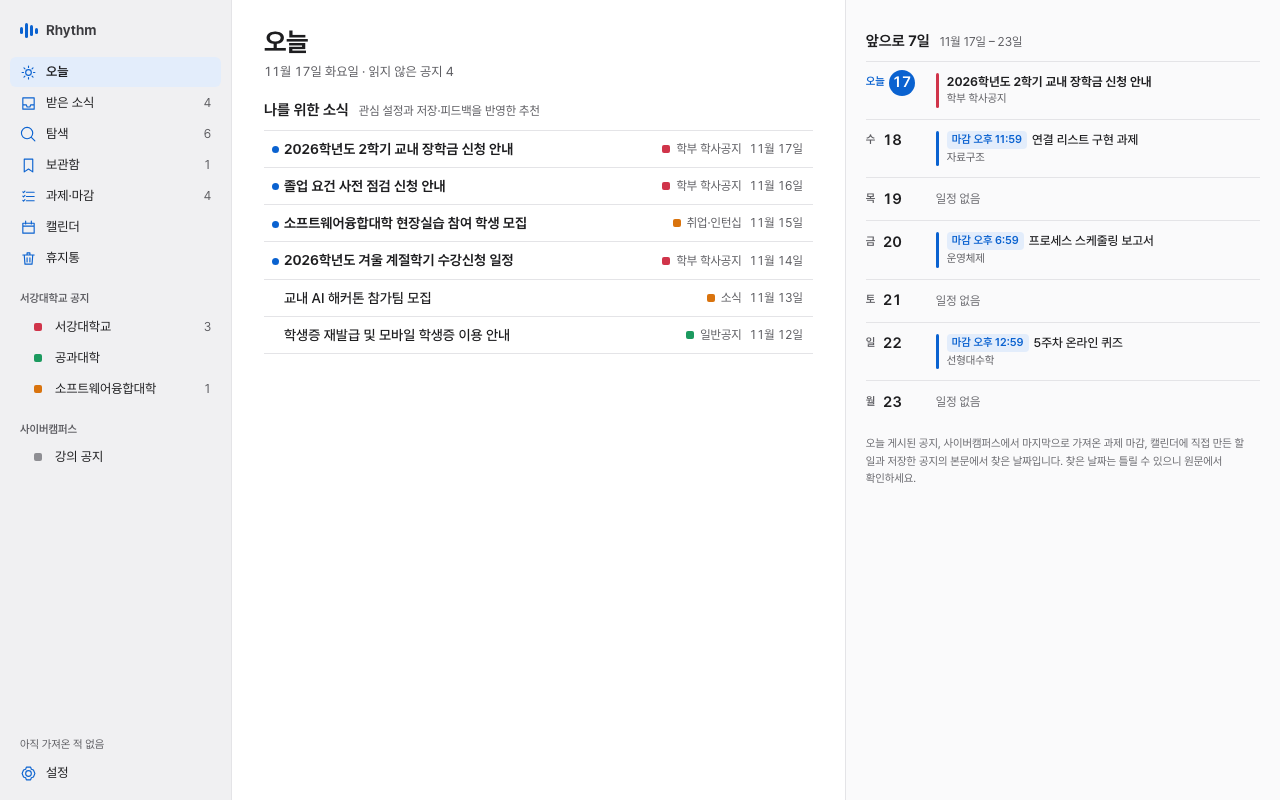
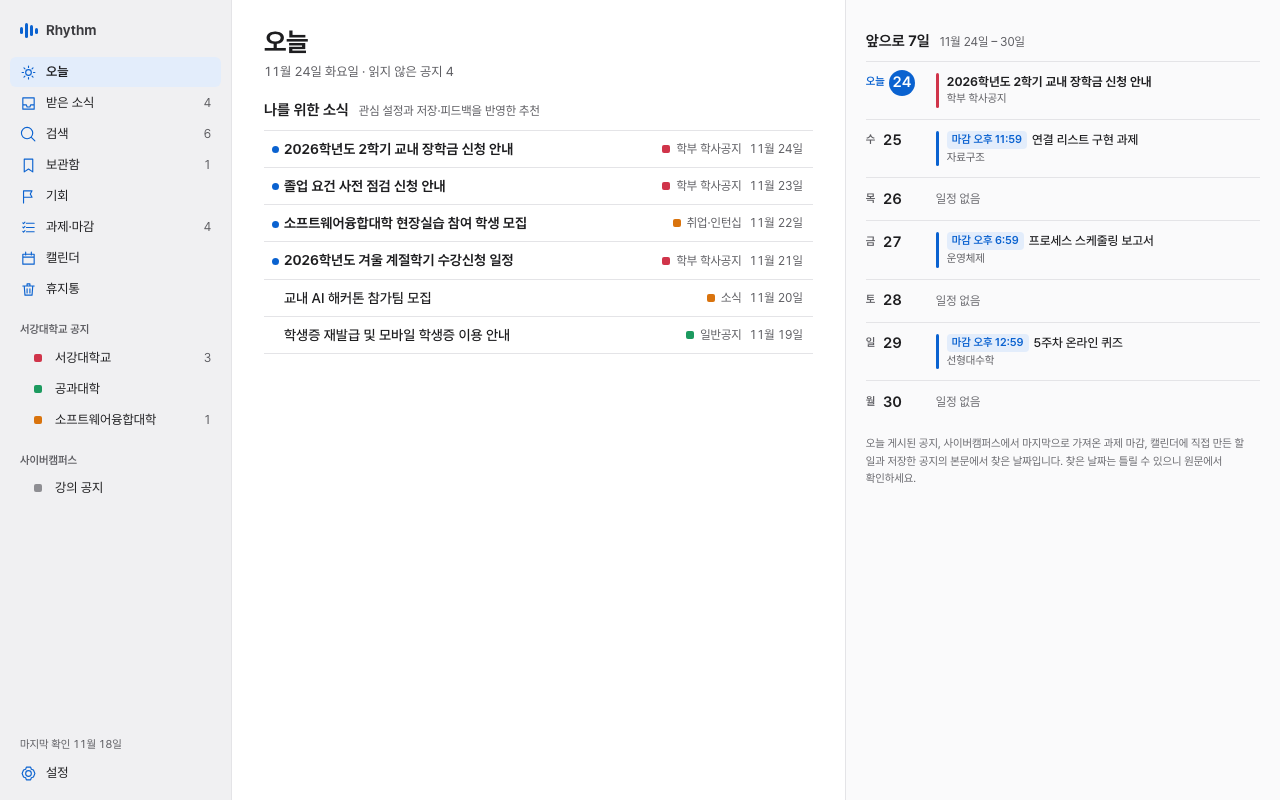
fix: rename the 탐색 page to 검색

diff --git a/tests/ui/archive.spec.ts b/tests/ui/archive.spec.ts
@@ -115,16 +115,16 @@ test('saving an item admits only one pending write and announces feedback', asyn
 test('navigation, local searches, filters, safe highlighting and empty-result announcement', async ({ page }) => {
   await mockDesktop(page);
   await page.goto('/');
-  for (const name of ['받은 소식', '보관함', '설정', '오늘', '탐색']) await navigate(page, name);
+  for (const name of ['받은 소식', '보관함', '설정', '오늘', '검색']) await navigate(page, name);
   await expect(page.locator('#main')).toBeFocused();
   await page.getByLabel('보관된 공지 검색').fill('장학금 Computer');
-  await page.getByRole('button', { name: '검색', exact: true }).click();
+  await page.getByRole('search').getByRole('button', { name: '검색', exact: true }).click();
   await expect(page.locator('.notice-list > li')).toHaveCount(2);
   await expect(page.locator('.notice-snippet mark').first()).toBeVisible();
   await page.getByRole('combobox', { name: '게시판 분류', exact: true }).selectOption('장학');
   await expect(page.locator('.notice-list > li')).toHaveCount(1);
   await page.getByLabel('보관된 공지 검색').fill('<script> & " % _');
-  await page.getByRole('button', { name: '검색', exact: true }).click();
+  await page.getByRole('search').getByRole('button', { name: '검색', exact: true }).click();
   await expect(page.getByText('조건에 맞는 공지가 없습니다', { exact: true })).toBeVisible();
   await expect(page.locator('.archive-result-status')).toContainText('0개');
   await expect(page.locator('.archive-view script')).toHaveCount(0);
@@ -133,10 +133,10 @@ test('navigation, local searches, filters, safe highlighting and empty-result an
 test('relevance search stays text-only without an embedding model', async ({ page }) => {
   await mockDesktop(page, { count: 3, aiSemanticSearch: true });
   await page.goto('/');
-  await navigate(page, '탐색');
+  await navigate(page, '검색');
   await expect(page.getByRole('combobox', { name: '정렬', exact: true })).toHaveValue('relevance');
   await page.getByLabel('보관된 공지 검색').fill('공지 01');
-  await page.getByRole('button', { name: '검색', exact: true }).click();
+  await page.getByRole('search').getByRole('button', { name: '검색', exact: true }).click();
   await expect(page.locator('.notice-list > li')).toHaveCount(1);
   await expect.poll(() => callCount(page, 'archive_ranked_query')).toBe(1);
   await expect(page.locator('.notice-meaning-note')).toHaveCount(0);
@@ -146,9 +146,9 @@ test('relevance search stays text-only without an embedding model', async ({ pag
 test('relevance search marks notices found only by meaning, and date order is text-only', async ({ page }) => {
   await mockDesktop(page, { count: 3, aiSemanticSearch: true, aiEmbeddingInstalled: true });
   await page.goto('/');
-  await navigate(page, '탐색');
+  await navigate(page, '검색');
   await page.getByLabel('보관된 공지 검색').fill('공지 03');
-  await page.getByRole('button', { name: '검색', exact: true }).click();
+  await page.getByRole('search').getByRole('button', { name: '검색', exact: true }).click();
   await expect(page.locator('.notice-list > li')).toHaveCount(2);
   const meaning = page.locator('.notice-list > li').filter({ has: page.locator('.notice-meaning-note') });
   await expect(meaning).toHaveCount(1);
@@ -431,17 +431,17 @@ test('narrow reader contains wide tables, exposes keyboard scroll and preserves 
 test('obsolete searches cannot overwrite newer filters or clamp their page', async ({ page }) => {
   await mockDesktop(page, { count: 31 });
   await page.goto('/');
-  await navigate(page, '탐색');
+  await navigate(page, '검색');
   await expect(page.locator('.notice-list > li')).toHaveCount(30);
   await page.evaluate(() => { (window as any).__fixture.options.queryDelay = 350; });
   await page.getByLabel('보관된 공지 검색').fill('없는검색어');
-  await page.getByRole('button', { name: '검색', exact: true }).click();
+  await page.getByRole('search').getByRole('button', { name: '검색', exact: true }).click();
   await expect(page.locator('.archive-view .loading')).toBeVisible();
   await page.evaluate(() => { (window as any).__fixture.options.queryDelay = 0; });
   await page.getByRole('combobox', { name: '게시판 분류', exact: true }).selectOption('장학');
   await expect(page.getByText('조건에 맞는 공지가 없습니다', { exact: true })).toBeVisible();
   await page.getByLabel('보관된 공지 검색').fill('Computer');
-  await page.getByRole('button', { name: '검색', exact: true }).click();
+  await page.getByRole('search').getByRole('button', { name: '검색', exact: true }).click();
   await expect(page.locator('.notice-list > li')).toHaveCount(16);
   await page.waitForTimeout(400); // Let the intentionally obsolete IPC response arrive.
   await expect(page.locator('.notice-list > li')).toHaveCount(16);
@@ -561,7 +561,7 @@ test('sidebar boards scope the inbox and badges describe their counts', async ({
   const sidebar = page.getByRole('navigation', { name: '기본 탐색', exact: true });
   await expect(sidebar).toContainText('구독한 게시판 없음');
   await expect(sidebar.getByRole('button', { name: '받은 소식', exact: true })).toHaveAccessibleDescription('읽지 않은 공지 3개');
-  await expect(sidebar.getByRole('button', { name: '탐색', exact: true })).toHaveAccessibleDescription('보관된 공지 3개');
+  await expect(sidebar.getByRole('button', { name: '검색', exact: true })).toHaveAccessibleDescription('보관된 공지 3개');
   await expect(sidebar.getByRole('button', { name: '보관함', exact: true })).toHaveAccessibleDescription('저장한 공지 3개');
   // Nothing arrived with the last sync, so 오늘 shows no badge rather than a zero.
   await expect(sidebar.getByRole('button', { name: '오늘', exact: true })).not.toHaveAttribute('aria-describedby');

diff --git a/tests/ui/extensions.spec.ts b/tests/ui/extensions.spec.ts
@@ -26,7 +26,7 @@ test('turning an extension on adds its page, widget and settings, and off remove
   const panes = page.getByRole('navigation', { name: '설정 항목', exact: true });
   await openSettings(page, '확장 기능');
   const toggle = (name: string) => page.getByRole('switch', { name: `${name} 사용 설정`, exact: true }).click();
-  for (const [extension, nav] of [['서강대학교 공지', '받은 소식'], ['탐색', '탐색'], ['보관함', '보관함'], ['사이버캠퍼스', '과제·마감'], ['캘린더', '캘린더']]) {
+  for (const [extension, nav] of [['서강대학교 공지', '받은 소식'], ['검색', '검색'], ['보관함', '보관함'], ['사이버캠퍼스', '과제·마감'], ['캘린더', '캘린더']]) {
     await toggle(extension);
     await expect(sidebar.getByRole('button', { name: nav, exact: true })).toBeVisible();
   }
@@ -42,11 +42,11 @@ test('turning an extension on adds its page, widget and settings, and off remove
   await expect(page.getByRole('heading', { level: 2, name: '나를 위한 소식', exact: true })).toBeVisible();
   await expect(page.getByRole('complementary', { name: '앞으로 7일', exact: true })).toBeVisible();
 
-  // Turning 탐색 off while on its page falls back to Today.
-  await sidebar.getByRole('button', { name: '탐색', exact: true }).click();
+  // Turning 검색 off while on its page falls back to Today.
+  await sidebar.getByRole('button', { name: '검색', exact: true }).click();
   await openSettings(page, '확장 기능');
-  await toggle('탐색');
-  await expect(sidebar.getByRole('button', { name: '탐색', exact: true })).toHaveCount(0);
+  await toggle('검색');
+  await expect(sidebar.getByRole('button', { name: '검색', exact: true })).toHaveCount(0);
   await toggle('AI 분류');
   await expect(panes.getByRole('button', { name: 'AI', exact: true })).toHaveCount(0);
 });

diff --git a/tests/ui/fixture.ts b/tests/ui/fixture.ts
@@ -181,7 +181,7 @@ export async function mockDesktop(page: Page, options: FixtureOptions = {}) {
       return snapshot;
     };
     const snapshot = { settings: { theme: 'light', energy_profile: 'eco', interests: '', clock_format: options.clockFormat ?? '12h', auto_trash_months: 0 },
-      extensions: ([['sogang_notices', '서강대학교 공지'], ['cybercampus', '사이버캠퍼스'], ['search', '탐색'], ['saved', '보관함'],
+      extensions: ([['sogang_notices', '서강대학교 공지'], ['cybercampus', '사이버캠퍼스'], ['search', '검색'], ['saved', '보관함'],
         ['recommendations', '나를 위한 소식'], ['week', '앞으로 7일'], ['calendar', '캘린더'], ['ai', 'AI 분류'], ['proactive', '알림·백그라운드'], ['studium', '열람실']] as const).map(([id, display_name]) => ({
         id, display_name, description: `${display_name} 설명`, available: true,
         enabled: options.extensions?.[id] ?? (id === 'sogang_notices' ? options.enabled ?? true : id !== 'studium') })),

diff --git a/src/lib/extensions.ts b/src/lib/extensions.ts
@@ -8,7 +8,7 @@ export type SettingsPane = 'extensions' | 'general' | 'boards' | 'cybercampus' |
 export const navigation: { id: string; label: string; extension?: string }[] = [
   { id: 'today', label: '오늘' },
   { id: 'inbox', label: '받은 소식', extension: 'sogang_notices' },
-  { id: 'search', label: '탐색', extension: 'search' },
+  { id: 'search', label: '검색', extension: 'search' },
   { id: 'bookmark', label: '보관함', extension: 'saved' },
   // AI categories with the deadlines found in each notice (#87).
   { id: 'opportunities', label: '기회', extension: 'ai' },

diff --git a/tests/ui/screenshots.spec.ts b/tests/ui/screenshots.spec.ts
@@ -81,7 +81,7 @@ test('inbox', async ({ page }) => {
 });
 test('explore search', async ({ page }) => {
   await open(page);
-  await nav(page, '탐색');
+  await nav(page, '검색');
   await page.getByRole('searchbox').first().fill('장학');
   await expect(page.locator('#notice-1')).toBeVisible();
   await shot(page, 'explore');

diff --git a/src-tauri/src/extensions/mod.rs b/src-tauri/src/extensions/mod.rs
@@ -34,7 +34,7 @@ const BUILT_IN: [(&str, &str, &str); 10] = [
         "사이버캠퍼스",
         "eClass에 로그인해 수강 과목의 공지와 과제·마감을 가져옵니다.",
     ),
-    (SEARCH, "탐색", "보관한 공지를 검색하고 조건으로 걸러 봅니다."),
+    (SEARCH, "검색", "보관한 공지를 검색하고 조건으로 걸러 봅니다."),
     (SAVED, "보관함", "저장한 공지를 한곳에 모아 봅니다."),
     (
         RECOMMENDATIONS,

diff --git a/docs/DESIGN.md b/docs/DESIGN.md
@@ -197,13 +197,13 @@ The visual system is a native macOS app drawn without irony, with Things 3 and F
 
 ## Korean-first navigation
 
-Navigation is a macOS source list. The four primary views **오늘 · 받은 소식 · 탐색 · 보관함** sit at the top, extension groups follow, and **설정** sits at the bottom. Labels, feedback and application-facing errors use natural Korean; product identifiers and model names stay recognizable.
+Navigation is a macOS source list. The four primary views **오늘 · 받은 소식 · 검색 · 보관함** sit at the top, extension groups follow, and **설정** sits at the bottom. Labels, feedback and application-facing errors use natural Korean; product identifiers and model names stay recognizable.
 
 | View | Current behavior |
 | --- | --- |
 | 오늘 | Recent ranked notices as one-line rows; cold-start recent items are explicitly not personalized. A rolling seven-day pane from today shows today's notices and dates found in saved notices. |
 | 받은 소식 | Full paginated chronological archive with unread/source/date/original-category filters and save controls. Recommendations never silently replace the inbox. |
-| 탐색 | Explicit local title/body search, mixed Korean/English/numeric terms, plain-text snippets and highlighted matches. Defaults to 관련도순; with the local classifier, notices similar in meaning join the results with a quiet `검색어는 없지만 뜻이 비슷한 공지` note. |
+| 검색 | Explicit local title/body search, mixed Korean/English/numeric terms, plain-text snippets and highlighted matches. Defaults to 관련도순; with the local classifier, notices similar in meaning join the results with a quiet `검색어는 없지만 뜻이 비슷한 공지` note. |
 | 보관함 | User-saved notices, independent of extension enablement. Saving contributes only bounded local evidence and does not make attachments available automatically. |
 | 기회 | Added by AI 분류. Notices classified as 공모전·대회, 인턴·채용, 교육·프로그램 or 행사·활동, nearest open deadline first, then those without one. Each row's meta line ends with the deadline label (`마감 12월 1일 오후 6:00 · D-9`, `오늘 마감`, `마감 지남 · …`): semibold secondary text, danger colour within three days, muted when closed; the words carry the meaning, not the colour. No sort select; AI 분류 chips narrow to one category and **마감 지난 공지도 보기** adds closed notices. |
 | 설정 | Six panes, one at a time: 일반 (theme, power mode, 초기 설정 다시 실행, start/close, automatic sync), 게시판 (extension switch, nested board groups, collection), AI (공지 분류, retired models, 고급), 개인화 (profile, interest chips, learning, reset), 알림 (switch, OS permission, sensitivity, quiet hours, history) and 데이터 및 정보 (local data, backup/restore, about and updates). |
@@ -211,7 +211,7 @@ Navigation is a macOS source list. The four primary views **오늘 · 받은 소
 Sidebar structure, top to bottom:
 
 - **Brand row:** the Beat mark and the word "Rhythm".
-- **Primary items:** each with a 17 px line icon in the accent colour. Each shows a plain tabular-numeral badge in secondary text with a screen-reader description: 오늘 the notices new since the last sync ("최근 동기화로 새 공지 N개"), 받은 소식 the unread count ("읽지 않은 공지 N개"), 탐색 the archived count ("보관된 공지 N개"), 보관함 the saved count ("저장한 공지 N개") and 과제·마감 the open tasks of its 해야 할 일 list ("남은 과제 N개"). A zero count is not shown.
+- **Primary items:** each with a 17 px line icon in the accent colour. Each shows a plain tabular-numeral badge in secondary text with a screen-reader description: 오늘 the notices new since the last sync ("최근 동기화로 새 공지 N개"), 받은 소식 the unread count ("읽지 않은 공지 N개"), 검색 the archived count ("보관된 공지 N개"), 보관함 the saved count ("저장한 공지 N개") and 과제·마감 the open tasks of its 해야 할 일 list ("남은 과제 N개"). A zero count is not shown.
 - **Extension groups:** one group per extension, headed by its display name in a small label (11 px/600, secondary). Each settings group (서강대학교, 공과대학, 전자공학과, 소프트웨어융합대학 …) holding a supported subscribed board is one row, in catalog order, so the sidebar grows with groups rather than boards. Boards outside any group (Cybercampus) are listed under organization sub-labels (the "서강대학교 ·" prefix is removed), because board names repeat across institutions; a sub-label that reads the same as its section heading (사이버캠퍼스) is left out. Each row has a small family-colour swatch next to its name and, like the primary items, its unread count ("읽지 않은 공지 N개"); a group's count covers every board placed directly in it. A disabled extension shows one quiet row, "꺼져 있음 · 설정에서 켜기"; an enabled extension with no subscribed boards shows "구독한 게시판 없음 · 설정". Both rows lead to Settings.
 - **Board scope:** selecting a group opens 받은 소식 filtered to the boards placed directly in it, not its nested groups (the 정보원 select's "<group> 전체" option). The page title becomes the group name with "게시판 N개 · 받은 소식" below it (N subscribed boards). When the group has two or more subscribed boards, a row of `.chip` buttons above the filters ("전체", then each board; `aria-pressed` on the chosen one) narrows it to one board, whose name and "<organization> · 받은 소식" then title the page. The group row, not 받은 소식, stays marked current either way. An ungrouped board row scopes to that board the same way.
 - **Bottom:** a sync status line, then 설정. While a sync runs, the line shows its message and page with a spinning refresh icon; otherwise it shows "마지막 확인 오늘 HH:MM" or "마지막 확인 M월 D일" from the latest successful check of the subscribed boards (the last feed sync without an error for public boards, the last run for Cybercampus), or "아직 가져온 적 없음" when none was ever checked.
